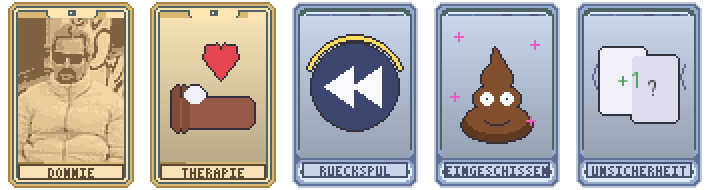
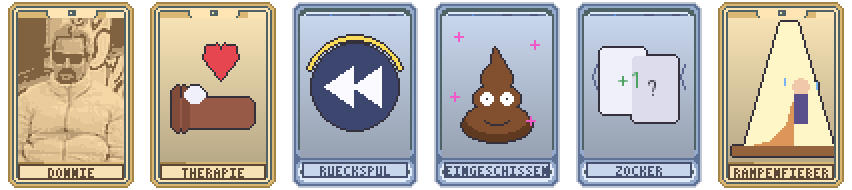
Rampen-Karte enhancement + Rampenfieber tarot, Die Unsicherheit renamed to Zocker, Eingeschissen flavour text
- Rampen-Karte: 0 Chips on its first trigger, +80 Chips on every retrigger
- Rampenfieber (Tarot): turns up to 2 selected cards into Rampen-Karten
- Zocker: same effect as Die Unsicherheit (key kept so old saves load), new banner
- Poster updated

diff --git a/tools/promo.py b/tools/promo.py
@@ -20,7 +20,7 @@ WHITE, GREY, LIGHT = (255, 255, 255), (150, 156, 170), (214, 220, 228)
 RARITY = {
     'Common': (0, 157, 255), 'Uncommon': (75, 194, 146), 'Rare': (254, 95, 85),
     'Legendary': (178, 108, 187), 'Boss': (230, 70, 70), 'Final Boss': (224, 40, 220),
-    'Voucher': (250, 180, 60), 'Tarot': (200, 160, 100), 'Spectral': (100, 140, 220), 'Deck': (150, 150, 170), 'Booster': (170, 90, 210),
+    'Voucher': (250, 180, 60), 'Tarot': (200, 160, 100), 'Spectral': (100, 140, 220), 'Deck': (150, 150, 170), 'Booster': (170, 90, 210), 'Enhancement': (90, 170, 220),
 }
 NEW_C, REPL_C, FOOD_C = (80, 200, 110), (120, 128, 146), (236, 146, 60)
 
@@ -166,9 +166,11 @@ VOUCHERS = [
 
 CONSUMABLES = [
     (sprite('Consumables.png', 0, 0), 'Classic Donnie', 'Tarot', 'Copies 1 selected card into your deck.'),
+    (sprite('Consumables.png', 5, 0), 'Rampenfieber', 'Tarot', 'Turns up to 2 selected cards into Rampen-Karten.'),
+    (sprite('Enhancements.png', 0, 0), 'Rampen-Karte', 'Enhancement', '0 Chips on its first trigger, +80 Chips on every retrigger.'),
     (sprite('Consumables.png', 2, 0), 'Die Rückspultaste', 'Spectral', 'Restore your deck to the start of this Ante. Lose all money.'),
     (sprite('Consumables.png', 3, 0), 'Eingeschissen', 'Spectral', 'Random Joker becomes Negative; destroys a random card.'),
-    (sprite('Consumables.png', 4, 0), 'Die Unsicherheit', 'Spectral', '+1 Joker slot; your Jokers are debuffed for a round.'),
+    (sprite('Consumables.png', 4, 0), 'Zocker', 'Spectral', '+1 Joker slot; your Jokers are debuffed for a round.'),
     (sprite('Packs.png', 0, 0), 'Donnie Pack', 'Booster', 'Choose 1 of 3 Donlatro Jokers: Uncommon, Rare or Legendary only.'),
     (sprite('Backs.png', 0, 0), 'Das ADHS-Deck', 'Deck', '+2 hand size, +1 discard. Jokers reshuffle every round.'),
     (sprite('Backs.png', 1, 0), 'Das Frustsuppen-Deck', 'Deck', 'Start at $0, no interest, +2 hands per round.'),
@@ -326,7 +328,7 @@ if __name__ == '__main__':
     sub = 'A Balatro mod  -  everything new at a glance'
     shadow_text(d, ((PAGE_W - d.textlength(sub, font=F_SUB)) / 2, 680 * S), sub, F_SUB, WHITE, 3)
     stats = (f'{len(NEW_JOKERS)} new Jokers  |  {len(REPLACEMENTS)} reworked Jokers  |  {len(BOSSES)} Bosses  |  '
-             f'{len(VOUCHERS)} Vouchers  |  1 Tarot  |  3 Spectrals  |  2 Decks  |  1 Pack')
+             f'{len(VOUCHERS)} Vouchers  |  2 Tarots  |  1 Enhancement  |  3 Spectrals  |  2 Decks  |  1 Pack')
     shadow_text(d, ((PAGE_W - d.textlength(stats, font=F_BODY)) / 2, 740 * S), stats, F_BODY, LIGHT)
     lx = (PAGE_W - 900 * S) / 2                                              # legend
     lx = badge(d, lx, 790 * S, 'NEW', NEW_C)
@@ -358,7 +360,7 @@ if __name__ == '__main__':
     y = section(page, y, 'VOUCHERS', 'base voucher and its upgrade', RARITY['Voucher'])
     y = grid(page, y, VOUCHERS, lambda p, x, yy, it: tile(p, x, yy, it[0], S, it[1], 'Voucher', [('VOUCHER', RARITY['Voucher'])], it[2]))
 
-    y = section(page, y, 'TAROTS, SPECTRALS, DECKS & PACKS', 'more ways to break the run', RARITY['Spectral'])
+    y = section(page, y, 'TAROTS, SPECTRALS, ENHANCEMENTS, DECKS & PACKS', 'more ways to break the run', RARITY['Spectral'])
     y = grid(page, y, CONSUMABLES, lambda p, x, yy, it: tile(p, x, yy, it[0], S, it[1], it[2], [(it[2].upper(), RARITY[it[2]])], it[3]))
 
     out = os.path.join(ROOT, 'promo')

diff --git a/tools/batch8_art.py b/tools/batch8_art.py
@@ -1,0 +1,58 @@
+"""Batch 8: Rampen-Karte enhancement, the 'Rampenfieber' tarot and the renamed 'Zocker' spectral.
+
+Writes into the current directory:
+  rampe_enh_1x.png       (1 cell: enhancement card background; rank/suit are drawn on top by the game)
+  b8_consumables_1x.png  (2 cells: Zocker spectral, Rampenfieber tarot)
+"""
+import math
+import os
+import sys
+from PIL import Image, ImageDraw
+
+sys.path.insert(0, os.path.dirname(os.path.abspath(__file__)))
+from batch6_art import consumable, art_unsicherheit, outlined_small, cell, W, H  # noqa: E402
+
+
+def rampe_enhancement():
+    card = cell('Enhancers.png', 1, 0).copy()                       # blank white base card
+    p = card.load()
+    d = ImageDraw.Draw(card)
+    # light blue frame inside the card edge (like other enhancements)
+    for y in range(H):
+        for x in range(W):
+            if p[x, y][3] and (x in (3, 4, W - 5, W - 4) or y in (4, 5, H - 6, H - 5)) and 3 <= x <= W - 4 and 4 <= y <= H - 5:
+                p[x, y] = (120, 180, 230, 255)
+    # a quarter-pipe ramp in the lower half, behind where the suit pips sit
+    r, cx, cy = 30, 20, 58
+    curve = [(cx + r * math.sin(math.radians(t)), cy + r * math.cos(math.radians(t)) - r) for t in range(0, 91, 10)]
+    d.polygon(curve + [(cx + r, cy)], fill=(250, 196, 140))
+    d.line(curve, fill=(226, 130, 60), width=2)
+    d.line((cx, cy, cx + r, cy), fill=(226, 130, 60), width=2)
+    d.rectangle((cx + r - 1, cy - r - 2, cx + r + 3, cy - r), fill=(226, 130, 60))   # coping
+    return card
+
+
+def art_rampenfieber(img):
+    def fn(d):
+        d.polygon([(26, 2), (34, 2), (52, 64), (8, 64)], fill=(255, 246, 200))     # spotlight
+        r = 22
+        curve = [(10 + r * math.sin(math.radians(t)), 64 + r * math.cos(math.radians(t)) - r) for t in range(0, 91, 10)]
+        d.polygon(curve + [(10 + r, 64)], fill=(220, 150, 90))                     # ramp on stage
+        d.rectangle((2, 64, 52, 68), fill=(150, 100, 60))                          # stage floor
+        d.ellipse((32, 30, 40, 38), fill=(240, 200, 170))                          # nervous performer
+        d.rectangle((33, 38, 39, 52), fill=(90, 80, 140))
+        for x, y in ((28, 30), (44, 32)):
+            d.line((x, y, x, y + 3), fill=(120, 180, 240))                         # sweat drops
+    img.alpha_composite(outlined_small(img.size, fn))
+
+
+if __name__ == '__main__':
+    rampe_enhancement().save('rampe_enh_1x.png')
+    sheet = Image.new('RGBA', (W * 2, H), (0, 0, 0, 0))
+    sheet.paste(consumable('spectral', 'ZOCKER', art_unsicherheit), (0, 0))
+    sheet.paste(consumable('tarot', 'RAMPENFIEBER', art_rampenfieber), (W, 0))
+    sheet.save('b8_consumables_1x.png')
+    prev = Image.new('RGBA', (W * 3 * 4 + 16, H * 4), (40, 40, 40, 255))
+    prev.paste(rampe_enhancement().resize((W * 4, H * 4), Image.NEAREST), (0, 0))
+    prev.paste(sheet.resize((W * 8, H * 4), Image.NEAREST), (W * 4 + 16, 0))
+    prev.save('b8_preview.png')
